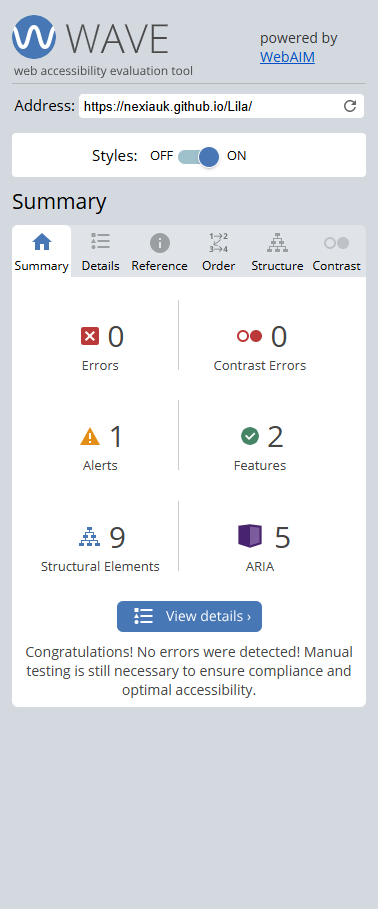
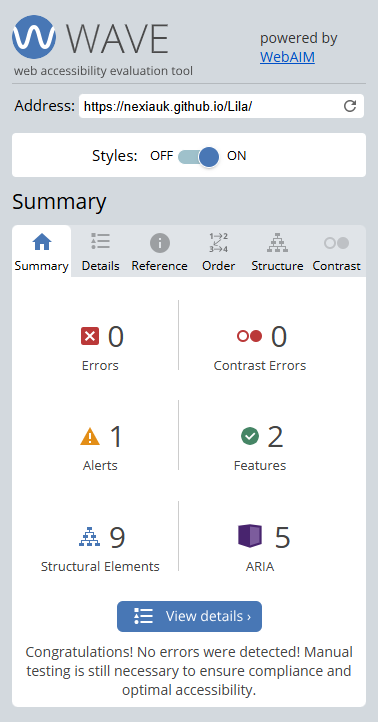
Added about page markup testing and images. Added WAVE accessibility testing results. Made changes to about.html based on html validator results

diff --git a/about.html b/about.html
@@ -63,7 +63,7 @@
             <div class="col col-12 mb-3 mt-2 mt-xxl-3 col-styling" id="about-col">
                 <h1 id="about-title" class="title-styling">About</h1>
                 <div id="about-text">
-                    <My>Hi, my name is Lucy and I like to create gamified and game-based-learning experiences.
+                    <p>Hi, my name is Lucy and I like to create gamified and game-based-learning experiences.
                     </p>
                     <p>Lila's Lost Words is my first ever project using JavaScript and was inspired by the Choose Your Own
                         Adventure games that we create as part of my <a href="https://nexiauk.github.io/Gameracy/" target="_blank">Gameracy programme. <i class="fa fa-external-link"></i></a></p>

diff --git a/documents/js-hint-testing/README for Lila.md b/documents/js-hint-testing/README for Lila.md
@@ -371,7 +371,7 @@ I want to be able to track my progress and see how well I’m doing at the puzzl
 
 #### [The W3C Markup Validation Service](https://validator.w3.org/)
 
-Html validation testing results on 30/4/25
+Html validation testing results on 30/4/25 for index.html
 
 1.      Warning: Section lacks heading. Consider using h2-h6 elements to add identifying headings to all sections or else use a div element instead for any cases where no heading is needed.
         From line 55, column 13; to line 55, column 88
@@ -384,10 +384,16 @@ Html validation testing results on 30/4/25
 4.      Error: Stray end tag: div 
         From line 115, column 5; to line 115, column 10
         
-        
-All issues listed above were resolved \- sections without titles were changed into div elements and the stray end tag was removed. HTML validation now passes without warnings or errors.
+All issues listed above were resolved - sections without titles were changed into div elements and the stray end tag was removed. HTML validation now passes without warnings or errors.
 
 ![An image of the W3C Markup Validation Service check on index.html, showing no errors](/assets/images/readme-images/html-validation.png)
+
+HTML validation testing results on 1/5/25 for about.html
+![An image of the W3C Markup Validation Service check on about.html, showing some errors](/assets/images/readme-images/html-validator-about.png)
+
+All issues listed above were resolved by correcting the incorrect my' tag. HMTL validation now passes without warnings or errors.
+
+![An image of the W3C Markup Validation Service check on about.html, showing no errors](/assets/images/readme-images/html-validation-about-success.png)
 
 #### [The W3C CSS Validation Service](https://jigsaw.w3.org/css-validator/)
 
@@ -426,26 +432,25 @@ Added the semi-colons and removed the unused variable. I ran JS hint on a couple
 
 #### [The WAVE Webb Accessibility Evaluation Tool](https://wave.webaim.org/)
 
-* The WAVE Webb test results came back with 0 errors and 0 contrast errors. It contained 1 warning for an element that it thinks should be a header, but it really shouldn’t be as it’s just the bottom of the story text. The reason this got flagged is because the particular paragraph contains less than 50 characters, which could indicate that it’s a heading but in this case is just a short sentence.. See screenshots below.  
-  ![][image12]  
-  ![][image13]  
-    
-  \!\[Screenshot of the WAVE test results for index.html\](../assets/images/readme-images/index-html-accessibility.png)  
-  
+* The WAVE Webb test results came back with 0 errors and 0 contrast errors. It contained 1 warning for an element that it thinks should be a header, but it really shouldn’t be as it’s just the bottom of the story text. The reason this got flagged is because the particular paragraph contains less than 50 characters, which could indicate that it’s a heading but in this case is just a short sentence.. See screenshots below. 
 
+![Screenshot of the WAVE accessibility testing results showing 0 errors and 1 warning](/assets/images/readme-images/wave-testing-results.png)
 
+![An image of the text it thinks should be a header, but doesn't need to be.](/assets/images/readme-images/wave-alert.png)
   
 [Back to Table of Contents](#table-of-contents)
 
-#### 
+
 
 #### Chrome Lighthouse
 
-Mobile results  
-![][image14]  
-![][image15]  
+* Mobile results  
 The performance on mobile sits at 97 due to the preloading of all the game’s images when the site loads. This is a calculated measure designed to improve the performance of the images loading as the chapters and images dynamically update throughout the game. There had been noticeable lag on the animated images uploading even with their small sizes, so I implemented a function that would preload ALL images once the DOM had finished loading. I think the trade-off on an initial slight performance drop is worth it.  
-Desktop results  
+
+![An image of the W3C CSS Validation Service check on style.css, showing no errors](/assets/images/readme-images/mobile-lighthouse.png)
+![An image of the W3C CSS Validation Service check on style.css, showing no errors](/assets/images/readme-images/mobile-lighthouse2.png)
+
+* Desktop results  
 ![][image16]  
 Desktop performance was one point off 100 due to an oversized image. Resized down and the score is now 100 across all areas and pretty confetti animation played.  
 ![][image17]
